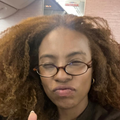
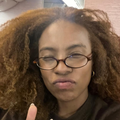
Recentraliza foto, corrige titulo duplicado da notificacao (DaianaLife from DaianaLife)

diff --git a/sw.js b/sw.js
@@ -54,7 +54,7 @@ self.addEventListener('fetch', (e) => {
 // fechado. Isso é diferente da notificação local que o próprio app
 // dispara quando está aberto (ver fireReminder() no index.html).
 self.addEventListener('push', (e) => {
-  let data = { title: 'DaianaLife', body: 'oi, linda. bora beber uma água?' };
+  let data = { title: '💧', body: 'oi, linda. bora beber uma água?' };
   try { if(e.data) data = { ...data, ...e.data.json() }; } catch(err){}
 
   e.waitUntil(

diff --git a/scripts/send-push.js b/scripts/send-push.js
@@ -45,7 +45,7 @@ async function main(){
   );
 
   const text = reminders[Math.floor(Math.random() * reminders.length)];
-  const payload = JSON.stringify({ title: 'DaianaLife', body: text });
+  const payload = JSON.stringify({ title: '💧', body: text });
 
   try {
     await webpush.sendNotification(state.subscription, payload);

diff --git a/index.html b/index.html
@@ -964,7 +964,7 @@
     const text = randomMessage();
     if('Notification' in window && Notification.permission === 'granted'){
       try{
-        new Notification('DaianaLife', {
+        new Notification('💧', {
           body: text,
           icon: 'icons/icon-192.png',
           badge: 'icons/icon-192.png'
